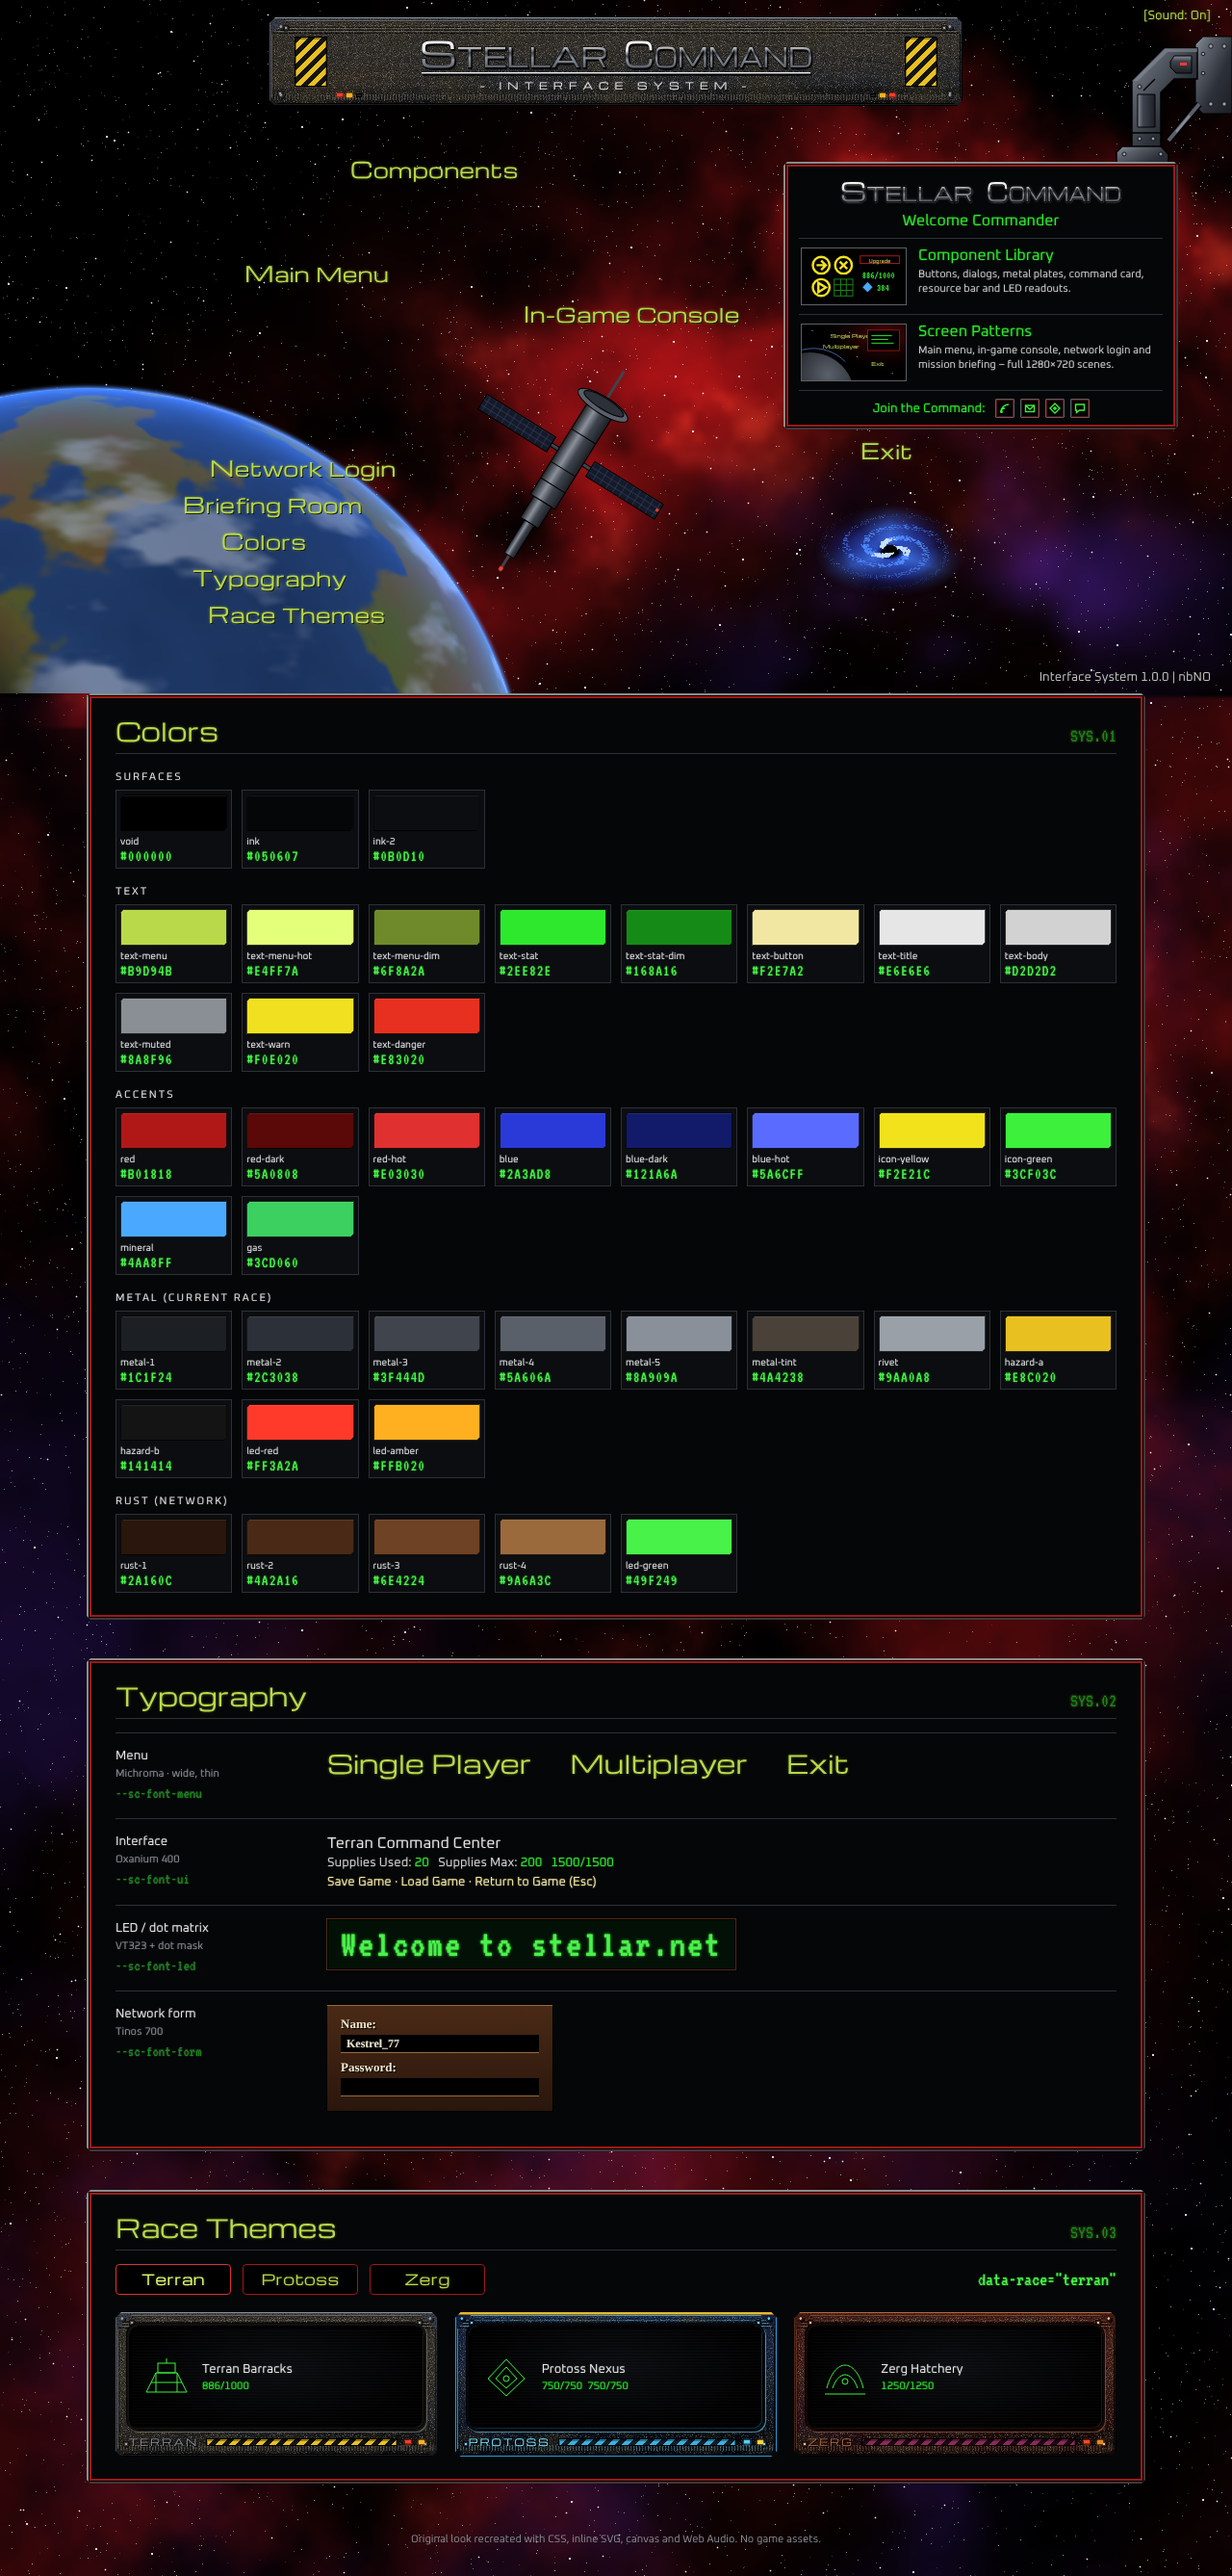
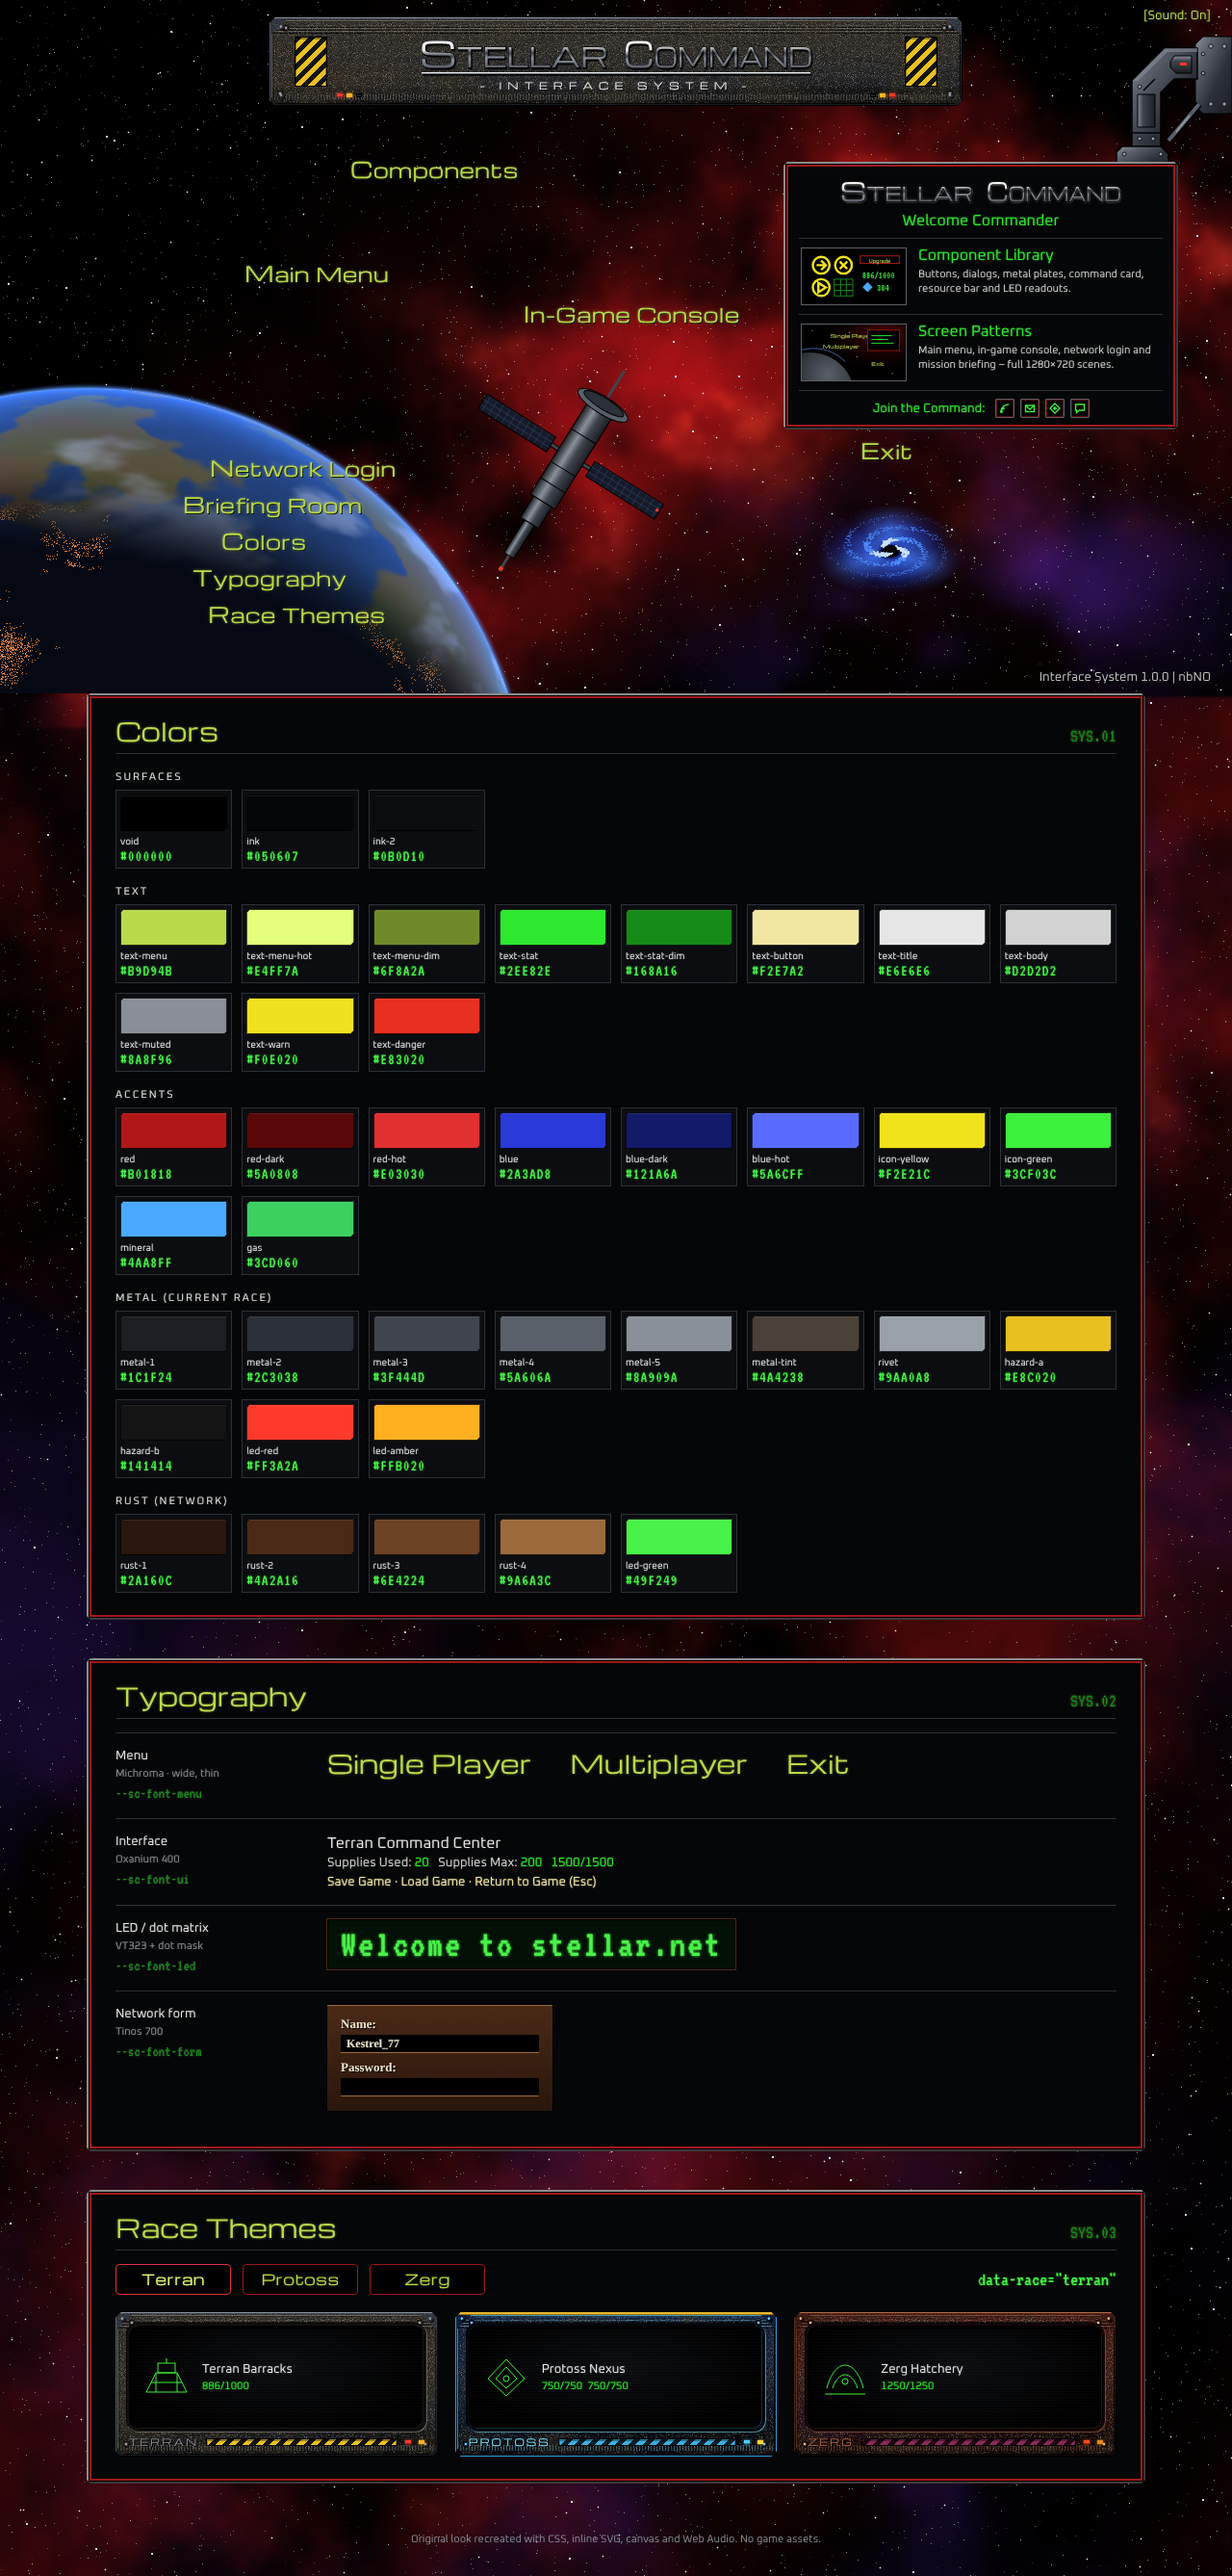
SC1 design system: progress (D round 2 critique, A/C round 2 in progress)
Claude-Session: https://claude.ai/code/session_01U4BJEL1DunDjrFQzZedLxi

Changed region(s): [[0.0, 0.1862, 0.4062, 0.2793], [0.6875, 0.1862, 0.75, 0.2172]]

diff --git a/sc1-design-system/index.html b/sc1-design-system/index.html
@@ -334,7 +334,7 @@
     var y0 = Math.max(0, Math.floor(py - pr - rim)), y1 = Math.min(HH, Math.ceil(py + pr + rim));
     if (x1 <= x0 || y1 <= y0) return;
     var img = g.getImageData(x0, y0, x1 - x0, y1 - y0), d = img.data, W = x1 - x0;
-    var Lx = 0.72, Ly = -0.62, Lz = 0.05, ll = Math.hypot(Lx, Ly, Lz); Lx /= ll; Ly /= ll; Lz /= ll;
+    var Lx = 0.15, Ly = -0.75, Lz = -0.65, ll = Math.hypot(Lx, Ly, Lz); Lx /= ll; Ly /= ll; Lz /= ll;
     var rnd = seeded(99);
     for (var y = y0; y < y1; y++) for (var x = x0; x < x1; x++) {
       var nx = (x - px) / pr, ny = (y - py) / pr, rr = nx * nx + ny * ny, k = ((y - y0) * W + (x - x0)) * 4;
@@ -362,9 +362,9 @@
       var nr = 6, ng = 9, nb = 20;
       var R = (nr + (r - nr) * light) * limb, G = (ng + (gg - ng) * light) * limb, B = (nb + (b - nb) * light) * limb;
       // bylys som oransje prikker på nattsiden
-      if (light < 0.55 && land > 0.5 && cl < 0.5) {
+      if (light < 0.55 && land > 0.3 && cl < 0.6) {
         var c = fbm(sx * 7, sy * 7, sz * 7, 2);
-        if (c > 0.5 && rnd() < (c - 0.5) * 3.2) { var f = (1 - light / 0.55) * (0.6 + rnd() * 0.4); R += 255 * f; G += 140 * f; B += 50 * f; }
+        if (c > 0.44 && rnd() < (c - 0.44) * 1.1) { var f = (1 - light / 0.55) * (0.6 + rnd() * 0.4); R += 255 * f; G += 140 * f; B += 50 * f; }
       }
       // indre atmosfære på dagsiden
       var at = Math.pow(1 - nz, 3) * (0.2 + light);

diff --git a/sc1-design-system/TASKS.md b/sc1-design-system/TASKS.md
@@ -4,7 +4,7 @@ Status: [ ] gjenstår · [~] pågår · [x] godkjent · [!] stoppet ved rundegre
 
 - [x] 0. Referansebilder fra Håkon → .kritikk/referanse/sc1/ + MALESTOKK.md + css/tokens.css (orkestrator)
 - [~] A. Komponenter: css/components.css + components.html (knapper, dialoger, paneler, kommandokort, ressurslinje, wireframe, LED, skjema) – R1: rød dialog GODKJENT; blå meny (P7=6), Terran-metall (P3=5), Protoss (P3=4) AVVIST → runde 2
-- [~] B. Mønstre: css/patterns.css + js/scene.js + patterns/main-menu.html + patterns/ingame.html (glue screen, Terran/Protoss/Zerg-konsoll, Game Menu) – runde 1
+- [~] B. Mønstre: css/patterns.css + js/scene.js + patterns/main-menu.html + patterns/ingame.html (glue screen, Terran/Protoss/Zerg-konsoll, Game Menu) – R1 levert, kritiker vurderer
 - [~] C. Battle.net + lyd + forside: patterns/battlenet.html + js/sc-audio.js + index.html (tokens, typografi, lenker, rase-bytter) – R1 AVVIST (bnet P2/P7/P10=6, forside P8=4) → runde 2
-- [~] D. Briefing: patterns/briefing.html + css/briefing.css + js/briefing.js – R1 AVVIST (P11=6, P2=6: flatt rom, moderne font) → runde 2
+- [~] D. Briefing: patterns/briefing.html + css/briefing.css + js/briefing.js – R1 AVVIST (P11=6) · R2 AVVIST (P2/P7=8, P10/P11=7: rommet for rent) → runde 3 (siste)
 - [ ] E. Helhetskritikk
